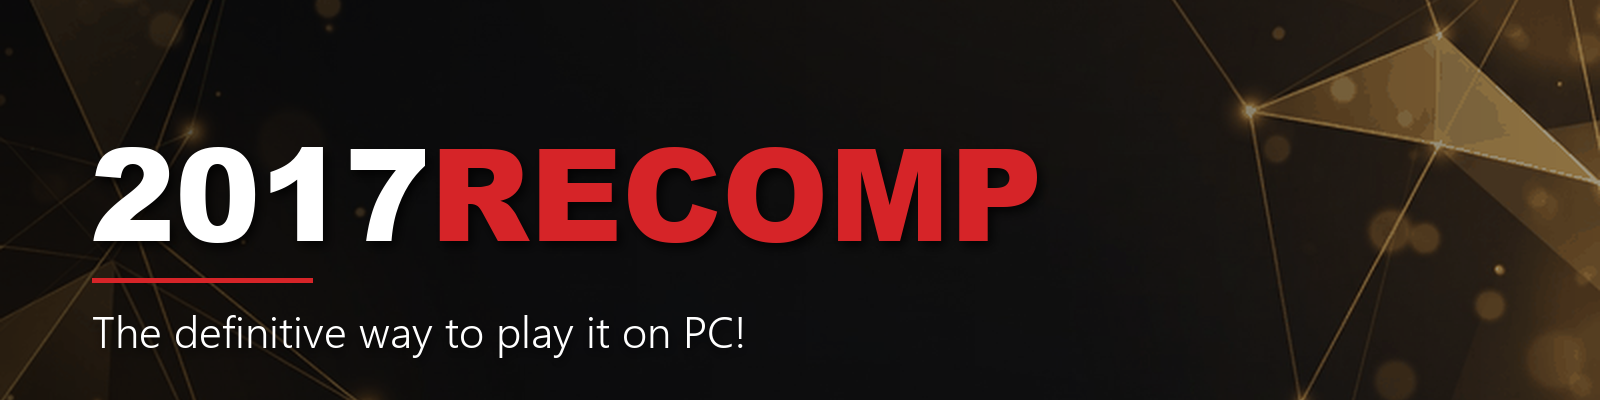
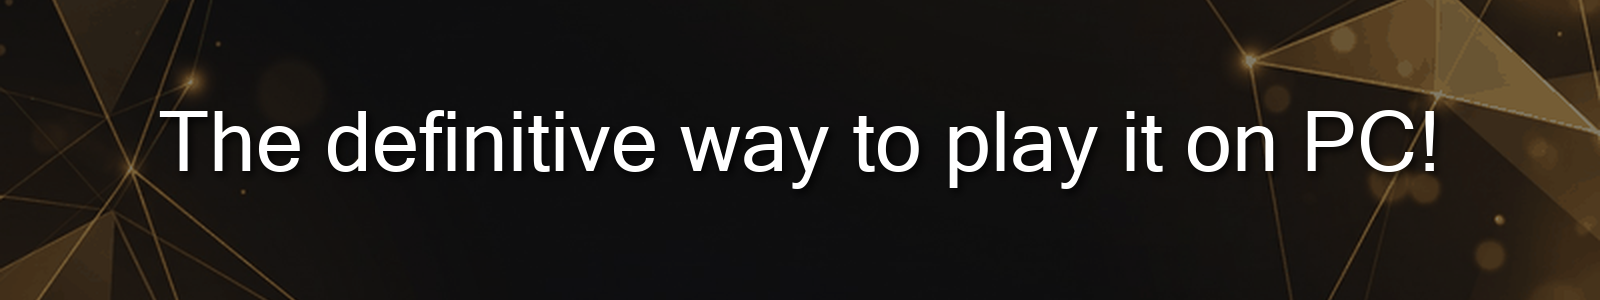
README header: only the tagline, in the settings window font

diff --git a/tools/art/make_header.py b/tools/art/make_header.py
@@ -1,43 +1,31 @@
 # SPDX-License-Identifier: GPL-2.0-or-later
 """Draws docs/header.png, the README banner: a lengthwise strip of the settings background
-(launcher/assets/background.bmp, an AI-generated image supplied by the project owner), darkened,
-with the "2017RECOMP" wordmark (Arial Black, as in the launcher) and the tagline (Segoe UI).
-The two fonts come from Windows and are not shipped; only the finished picture is.
+(launcher/assets/background.bmp, an AI-generated image supplied by the project owner), darkened a little,
+with one line of text in Microsoft Sans Serif (the face behind "MS Shell Dlg", which the settings window uses).
+The font comes from Windows and is not shipped; only the finished picture is.
 Run: python tools/art/make_header.py"""
 from pathlib import Path
 from PIL import Image, ImageDraw, ImageFilter, ImageFont
 
 ROOT = Path(__file__).resolve().parents[2]
-W, H = 1600, 400
-FONTS = Path("C:/Windows/Fonts")
-RED, WHITE = (214, 36, 40), (255, 255, 255)
+W, H = 1600, 300
+TEXT = "The definitive way to play it on PC!"
 
 
 def main():
     bg = Image.open(ROOT / "launcher/assets/background.bmp").convert("RGB")
-    # A wide strip: the full width of the picture, scaled to the banner width, cut around its middle.
-    scale = W / bg.width
-    big = bg.resize((W, round(bg.height * scale)), Image.LANCZOS)
+    big = bg.resize((W, round(bg.height * W / bg.width)), Image.LANCZOS)
     top = (big.height - H) // 2
     strip = big.crop((0, top, W, top + H))
-    shade = Image.new("RGB", (W, H), (0, 0, 0))
-    mask = Image.linear_gradient("L").rotate(90).resize((W, H))  # darker on the left, where the text is
-    strip = Image.composite(shade, strip, mask.point(lambda v: 170 - v // 3))
-    title_font = ImageFont.truetype(str(FONTS / "ariblk.ttf"), 128)
-    sub_font = ImageFont.truetype(str(FONTS / "segoeuisl.ttf"), 44)
-    x, y = 90, 100
+    strip = Image.blend(strip, Image.new("RGB", (W, H), (0, 0, 0)), 0.45)
+    font = ImageFont.truetype("C:/Windows/Fonts/micross.ttf", 84)
+    box = ImageDraw.Draw(strip).textbbox((0, 0), TEXT, font=font)
+    x, y = (W - (box[2] - box[0])) // 2 - box[0], (H - (box[3] - box[1])) // 2 - box[1]
     shadow = Image.new("RGBA", (W, H), (0, 0, 0, 0))
-    sdraw = ImageDraw.Draw(shadow)
-    sdraw.text((x + 4, y + 5), "2017RECOMP", font=title_font, fill=(0, 0, 0, 200))
-    sdraw.text((x + 3, y + 205), "The definitive way to play it on PC!", font=sub_font, fill=(0, 0, 0, 200))
-    strip = Image.alpha_composite(strip.convert("RGBA"), shadow.filter(ImageFilter.GaussianBlur(5))).convert("RGB")
-    draw = ImageDraw.Draw(strip)
-    draw.text((x, y), "2017", font=title_font, fill=WHITE)
-    draw.text((x + draw.textlength("2017", font=title_font), y), "RECOMP", font=title_font, fill=RED)
-    draw.text((x + 2, y + 200), "The definitive way to play it on PC!", font=sub_font, fill=WHITE)
-    draw.rectangle((x + 2, y + 178, x + 2 + 220, y + 182), fill=RED)
+    ImageDraw.Draw(shadow).text((x + 3, y + 4), TEXT, font=font, fill=(0, 0, 0, 220))
+    strip = Image.alpha_composite(strip.convert("RGBA"), shadow.filter(ImageFilter.GaussianBlur(4))).convert("RGB")
+    ImageDraw.Draw(strip).text((x, y), TEXT, font=font, fill=(255, 255, 255))
     out = ROOT / "docs" / "header.png"
-    out.parent.mkdir(exist_ok=True)
     strip.save(out, optimize=True)
     print(f"wrote {out} ({out.stat().st_size // 1024} KiB)")
 

diff --git a/CREDITS.md b/CREDITS.md
@@ -22,5 +22,5 @@ This project is not affiliated with or endorsed by Konami or Sony. Pro Evolution
 
 - The launcher's logo ("2017RECOMP") is original to this project, set in Arial Black, which is not shipped (the launcher uses the copy that comes with Windows).
 - The settings window's button icons are drawn by `tools/art/make_settings_art.py` (original shapes, labels in DejaVu Sans). Its gamepad picture was supplied by the project owner (an AI-generated image, cut out by `tools/art/cut_gamepad.py`).
-- The README header picture (`docs/header.png`) is drawn by `tools/art/make_header.py` from the settings window background, with the wordmark in Arial Black and the tagline in Segoe UI (both from Windows, not shipped; only the finished picture is).
+- The README header picture (`docs/header.png`) is drawn by `tools/art/make_header.py` from the settings window background, with one line of text in Microsoft Sans Serif, the face the settings window uses (a Windows font, not shipped; only the finished picture is).
 - The launcher tile pictures and the settings window background are AI-generated images supplied by the project owner; the launcher background is a crop of the settings background. None is a photograph of a real place. All are included under this project's licence.

diff --git a/README.md b/README.md
@@ -1,7 +1,7 @@
 <!-- SPDX-License-Identifier: GPL-2.0-or-later -->
 <div align="center">
 
-<img src="docs/header.png" alt="2017RECOMP: The definitive way to play it on PC!" width="100%">
+<img src="docs/header.png" alt="The definitive way to play it on PC!" width="100%">
 
 [Quick start](#quick-start) · [How it works](#how-it-works) · [Features](#features) · [FAQ](#faq) · [Documentation](#documentation) · [Credits](#credits) · [Disclaimer](#disclaimer)
 
